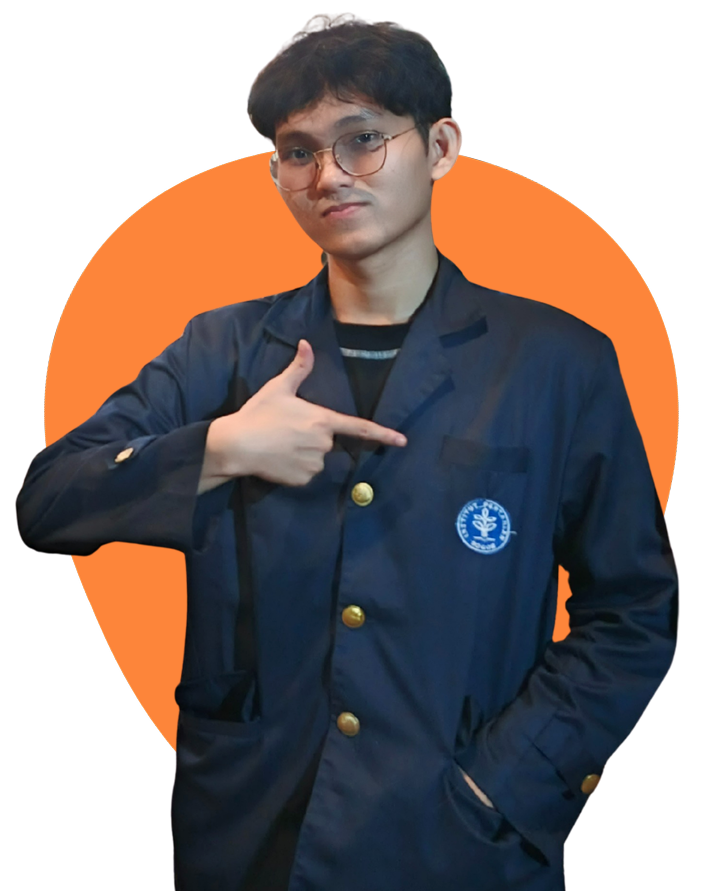
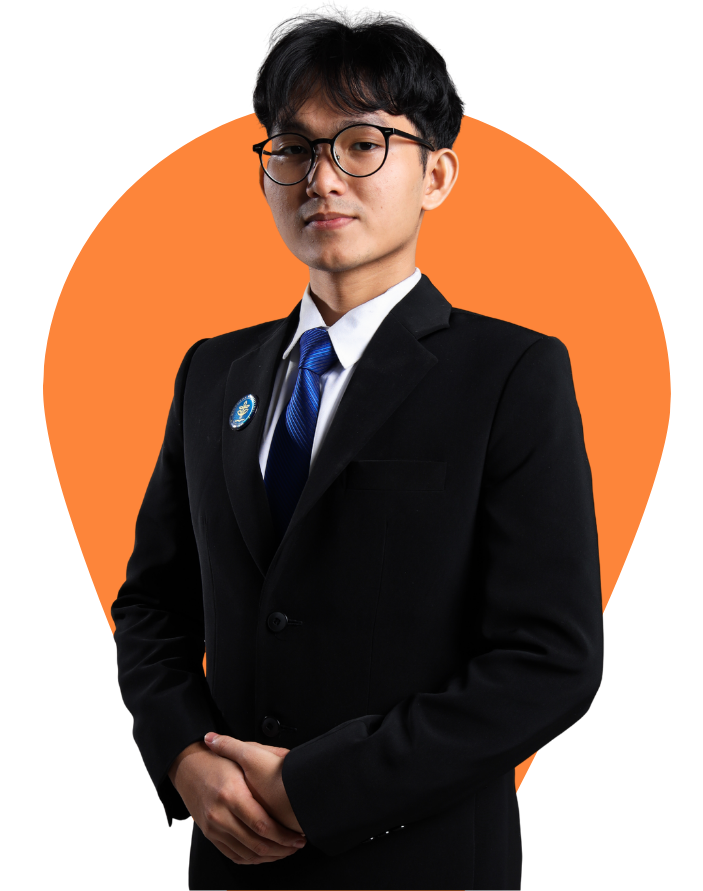
ganti ke foto mapres

diff --git a/src/components/sections/Home.js b/src/components/sections/Home.js
@@ -22,13 +22,16 @@ export default function Home() {
         {
           duration: 1.6,
           delay: stagger(0.05),
-        }
+        },
       );
     });
   }, []);
 
   return (
-    <section id="home" className="bg-white relative w-full overflow-hidden mt-16">
+    <section
+      id="home"
+      className="bg-white relative w-full overflow-hidden mt-16"
+    >
       {/* === Hero Section === */}
       <div className="bg-white max-w-screen-xl mx-auto px-8 lg:px-20 pt-20">
         {/* === Desktop Layout === */}
@@ -65,10 +68,16 @@ export default function Home() {
               animate={{ opacity: 1, y: 0 }}
               transition={{ duration: 0.6, delay: 1.9 }}
             >
-              Mahasiswa Sarjana Terapan Teknologi Rekayasa Perangkat Lunak di mana hayo
-              Sekolah Vokasi IPB University. Aktif mengikuti berbagai kompetisi
-              dan menjelajahi tantangan di bidang teknologi, lingkungan, dan
-              pendidikan melalui pendekatan yang kreatif dan inovatif.
+              Mahasiswa Sarjana Terapan Teknologi Rekayasa Perangkat Lunak di
+              Sekolah Vokasi IPB University yang adaptif, penuh rasa ingin tahu,
+              dan berjiwa inovator. Memiliki pendekatan analitis, penelitian dan
+              kreatif dalam menghadapi tantangan di bidang teknologi. Terampil
+              dalam mengembangkan ide out-of-the-box menjadi solusi digital yang
+              aplikatif, didukung oleh kemampuan komunikasi dan penyusunan
+              narasi yang kuat. Dikenal memiliki inisiatif, kemampuan
+              beradaptasi, serta kolaborasi yang baik. Memiliki visi untuk terus
+              belajar, tumbuh, dan berkontribusi melalui karya yang berdampak
+              nyata bagi masyarakat.
             </motion.p>
 
             <motion.button
@@ -235,7 +244,7 @@ export default function Home() {
               ✕
             </button>
             <iframe
-              src="https://rcljtsnaqwlqnbwknsdm.supabase.co/storage/v1/object/public/cv-files//CV_Zolla%20Perdana%20Putra%20Harahap.pdf"
+              src="https://rcljtsnaqwlqnbwknsdm.supabase.co/storage/v1/object/public/cv-files/CV_Zolla%20Perdana%20Putra%20Harahap.pdf"
               className="w-full h-full"
               loading="lazy"
               title="Curriculum Vitae Zolla Perdana"

diff --git a/src/components/sections/About.js b/src/components/sections/About.js
@@ -71,12 +71,13 @@ export default function About() {
             transition={{ duration: 0.6, delay: 0.7 }}
             viewport={{ once: true }}
           >
-            Seorang Mahasiswa Sarjana Terapan Teknologi Rekayasa Perangkat Lunak
-            di Sekolah Vokasi IPB University yang dikenal memiliki sifat
-            adaptif, penuh rasa ingin tahu, dan berjiwa inovator. Aktif
-            mengikuti berbagai kompetisi dan menjelajahi tantangan di bidang
-            teknologi, lingkungan, dan pendidikan melalui pendekatan yang
-            kreatif dan inovatif.
+            Mahasiswa Berprestasi IPB University sekaligus mahasiswa Sarjana
+            Terapan Teknologi Rekayasa Perangkat Lunak di Sekolah Vokasi IPB
+            University. Dikenal sebagai pribadi yang adaptif, memiliki rasa
+            ingin tahu tinggi, dan berjiwa inovator. Aktif mengikuti berbagai
+            kompetisi serta mengembangkan solusi di bidang teknologi,
+            lingkungan, dan pendidikan melalui pendekatan yang kreatif,
+            inovatif, dan berorientasi pada dampak.
           </motion.p>
 
           {/* Statistik */}
@@ -152,7 +153,7 @@ export default function About() {
           >
             {/* Button Download CV */}
             <a
-              href="/CV_Zolla Perdana Putra Harahap.pdf"
+              href="https://rcljtsnaqwlqnbwknsdm.supabase.co/storage/v1/object/public/cv-files/CV_Zolla%20Perdana%20Putra%20Harahap.pdf"
               download
               className="relative w-[300px] block group"
             >

diff --git a/src/components/ui/resizable-navbar.jsx b/src/components/ui/resizable-navbar.jsx
@@ -100,7 +100,7 @@ export const NavItems = ({
             key={`link-${idx}`}
             onClick={item.onClick}
             onMouseEnter={() => setHovered(idx)}
-            className="relative px-4 py-2 text-neutral-600 dark:text-neutral-300"
+            className="relative cursor-pointer px-4 py-2 text-neutral-600 dark:text-neutral-300"
           >
             {(isHovered || isActive) && (
               <motion.div
